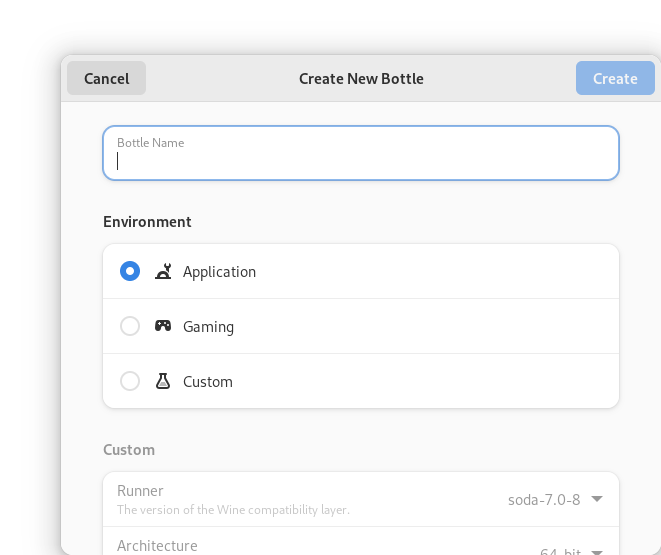
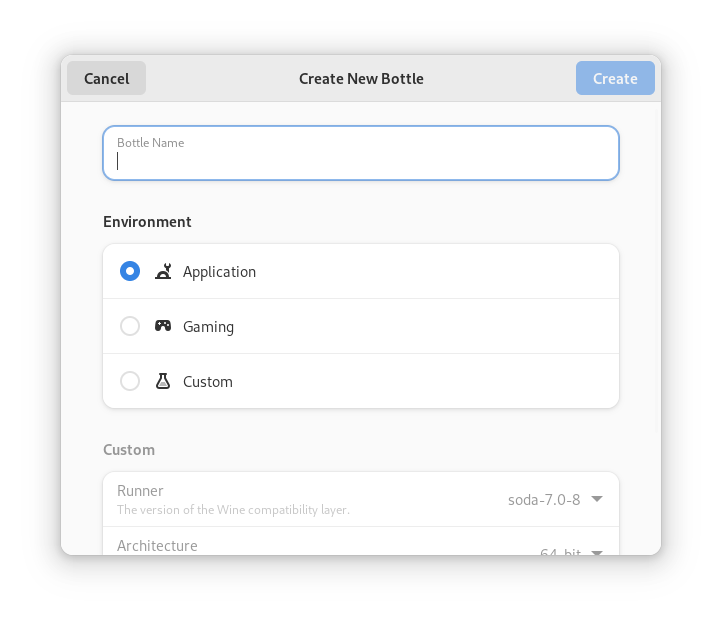
Review Release 51.0

diff --git a/_posts/2023-02-20-release-51.0.md b/_posts/2023-02-20-release-51.0.md
@@ -20,31 +20,28 @@ We love release days over here, and this one is not the exception! We have some 
 
 Let's dive right into it!
 
-# "New Bottle" interface
-We've changed this dialog, as it was not really clear which environment was selected. Now, we use radio buttons, and it's prettier than ever!
+## New "New Bottle" interface
+The old "New Bottle" interface had several issues:
+- There wasn't a clear indicator for which environment was chosen, especially when the Custom environment was selected and then collapsed.
+- The window would increase and shrink in each page, and when the Custom environment was selected or collapsed. This was distracting, as windows generally shouldn't unknowingly expand and shrink.
 
+Both of these issues are now addressed with the brand new "New Bottle" dialog! We switched to radio buttons and changed from an expander section for the Custom environment to a "Custom" section. This section will only be editable when the Custom environment is chosen.
 
 <img tooltip="New Bottle Dialog" class="on-light" src="/uploads/bottles-new-bottle-light.png" />
 <img tooltip="New Bottle Dialog" class="on-dark" src="/uploads/bottles-new-bottle-dark.png" />
 
-# Quality of Life changes
-## New library icon
-We've changed the library icon, to really show books, and not simply a "heart" icon. We could have thought of this earlier, but at least now it's done :)
+## Quality of Life changes
+There are several minor quality of life changes, that will hopefully improve the user experience:
+- The Library icon has been changed from a heart to books, to represent a libary.
+- There is now a new toast when launching executables with "Run Executable". Before, there wasn't a clear indicator when the program was launching.
+- The runners are now sorted according to a priority list. From the highest to the lowest priority: Soda, Caffe, Vaniglia, Lutris, and then the rest. Whenever you want to create a new bottle, or change the runner of an existing runner, everything will be displayed in order.
+- Bottles can now be named without any character restrictions. This means, for example, "Assassin's Creed", "Sid Meier’s Civilization", or "Paw Patrol: On A Roll" are now valid names.
 
-## New toast when launching things with "Run Executable"
-Yes, we could also have thought about it earlier, but better late than never, right?
-
-## Runners list order
-When runners are printed in the console for example, they will always have a stable and nice order, with Soda, Caffe, Vaniglia, and others. Nice touch!
-
-## Bottle naming
-Bottles can now be named without any character restrictions! You can now name a bottle "Assassin's Creed", "Sid Meier’s Civilization", or "Paw Patrol: On A Roll". Which ever game you like.
-
-# Bug fixes
+## Bug fixes
 As always with every release of Bottles, a *ton* of bugs have been squashed! Here they are:
-- Adding shortcut to Steam now properly works again (after hotfix 51.3)
-- Importing full backups should also be fixed!
-- A lot of various issues with the library have been fixed, like empty covers, crashes, and it's better than ever!
+- Adding shortcut to Steam now properly works again (after Bottles 51.3)
+- Importing full backups.
+- A lot of various issues with the library have been fixed, like empty covers, crashes, and it's better than ever.
 - Various bugs regarding text encoding, in games and in Bottles
 - Bottles list will now be correctly updated after deleting a bottle
 
